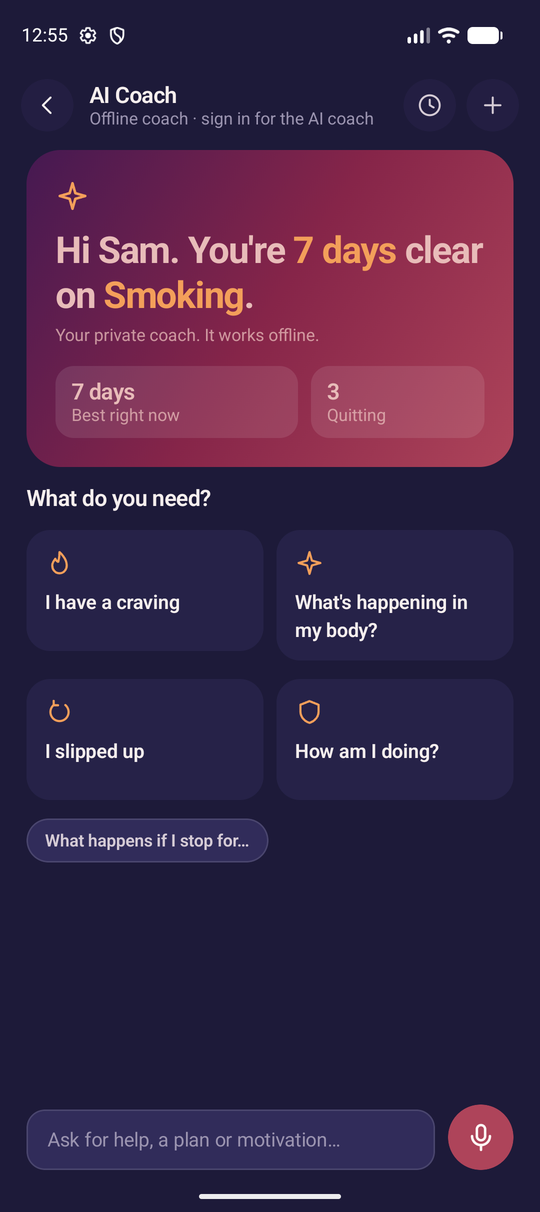
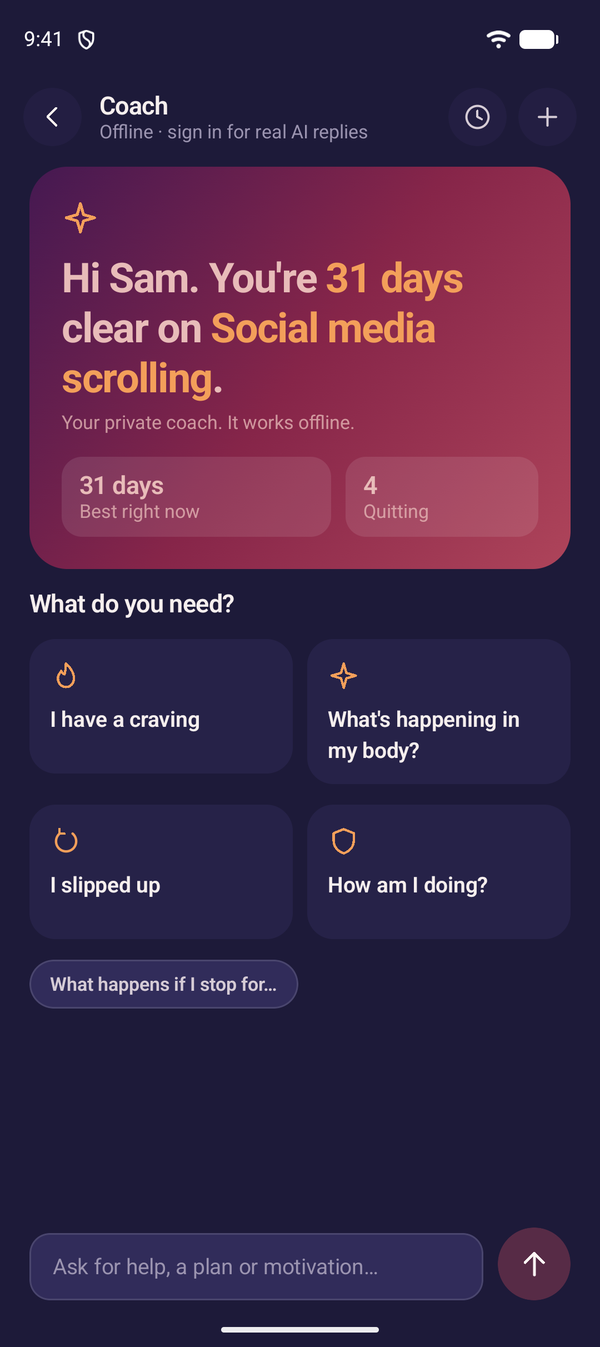
docs(readme): fresh screenshots, clean gallery layout and an Arabic section
The gallery table had a changelog note pasted into its header row, which
pushed captions beside the images. Rebuilt it as HTML tables with each
caption under its image, grouped by topic, and added six right-to-left
Arabic screens. New hero banner and screenshots from the current UI.

diff --git a/README.md b/README.md
@@ -33,22 +33,84 @@ NixUra helps people **break bad habits**, **build good ones** and **look forward
 
 ## Screenshots
 
-All screenshots are from the Android app running on a Pixel 9 emulator, with demo data.
+Taken on the Android app (Pixel 9 emulator) on 2026-11-20 with demo data. The widgets picture is from 2026-11-14.
 
-| Home dashboard | Habits to quit | Polish (2026-11-14) | Every card's ⋯ / long-press sheet has "Add to Home screen"; Event cards are coloured by category and warm up as the event comes closer; Home shows quit habits as compact rows; Settings has Dark / Light / Same as phone; the coach's focus follows the habit a chat is about; landing shows the official icon with Create account, Continue as guest and Sign in. |
-| Quit habit analysis |
-|:---:|:---:|:---:|
-| <img src="docs/screenshots/home.png" width="250" alt="Home dashboard" /> | <img src="docs/screenshots/quit.png" width="250" alt="Habits to quit" /> | <img src="docs/screenshots/quit-detail.png" width="250" alt="Quit habit analysis" /> |
-| **Habits to build** | **Prayer habit card** | **Good habit analysis** |
-| <img src="docs/screenshots/build.png" width="250" alt="Habits to build" /> | <img src="docs/screenshots/prayer.png" width="250" alt="Prayer habit card" /> | <img src="docs/screenshots/prayer-detail.png" width="250" alt="Good habit analysis" /> |
-| **Event countdowns** | **Coach** | **Coach reply with a progress card** |
-| <img src="docs/screenshots/events.png" width="250" alt="Event countdowns" /> | <img src="docs/screenshots/coach.png" width="250" alt="Coach" /> | <img src="docs/screenshots/coach-chat.png" width="250" alt="Coach reply" /> |
-| **Adding a quit habit (name recognised)** | **Adding a good habit** | **Adding an event with reminders** |
-| <img src="docs/screenshots/add-quit.png" width="250" alt="Add a quit habit" /> | <img src="docs/screenshots/add-good.png" width="250" alt="Add a good habit" /> | <img src="docs/screenshots/add-event.png" width="250" alt="Add an event" /> |
-| **Home-screen widgets** | **Light theme** | **Light theme** |
-| <img src="docs/screenshots/widgets.png" width="250" alt="Android home-screen widgets" /> | <img src="docs/screenshots/home-light.png" width="250" alt="Home in the light theme" /> | <img src="docs/screenshots/quit-light.png" width="250" alt="Quit list in the light theme" /> |
-| **Welcome** | **Sign in** | **Settings** |
-| <img src="docs/screenshots/welcome.png" width="250" alt="Welcome screen" /> | <img src="docs/screenshots/sign-in.png" width="250" alt="Sign-in screen" /> | <img src="docs/screenshots/settings.png" width="250" alt="Settings" /> |
+### Your day at a glance
+
+<table>
+  <tr>
+    <td align="center" width="33%"><img src="docs/screenshots/home.png" width="240" alt="Home dashboard" /><br /><sub><b>Home dashboard</b></sub></td>
+    <td align="center" width="33%"><img src="docs/screenshots/quit.png" width="240" alt="Habits to quit" /><br /><sub><b>Habits to quit</b></sub></td>
+    <td align="center" width="33%"><img src="docs/screenshots/build.png" width="240" alt="Habits to build" /><br /><sub><b>Habits to build</b></sub></td>
+  </tr>
+</table>
+
+### Progress and countdowns
+
+<table>
+  <tr>
+    <td align="center" width="33%"><img src="docs/screenshots/quit-detail.png" width="240" alt="Quit habit analysis" /><br /><sub><b>Quit habit analysis</b></sub></td>
+    <td align="center" width="33%"><img src="docs/screenshots/prayer-detail.png" width="240" alt="Prayer habit analysis" /><br /><sub><b>Prayer habit analysis</b></sub></td>
+    <td align="center" width="33%"><img src="docs/screenshots/events.png" width="240" alt="Event countdowns" /><br /><sub><b>Event countdowns</b></sub></td>
+  </tr>
+</table>
+
+### Coach and widgets
+
+<table>
+  <tr>
+    <td align="center" width="33%"><img src="docs/screenshots/coach.png" width="240" alt="Offline coach" /><br /><sub><b>Offline coach</b></sub></td>
+    <td align="center" width="33%"><img src="docs/screenshots/coach-chat.png" width="240" alt="Coach reply with a progress card" /><br /><sub><b>Coach reply with a progress card</b></sub></td>
+    <td align="center" width="33%"><img src="docs/screenshots/widgets.png" width="240" alt="Android home-screen widgets" /><br /><sub><b>Android home-screen widgets</b></sub></td>
+  </tr>
+</table>
+
+### Adding things
+
+<table>
+  <tr>
+    <td align="center" width="33%"><img src="docs/screenshots/add-quit.png" width="240" alt="New quit habit (name recognised)" /><br /><sub><b>New quit habit (name recognised)</b></sub></td>
+    <td align="center" width="33%"><img src="docs/screenshots/add-good.png" width="240" alt="New good habit (N days a week)" /><br /><sub><b>New good habit (N days a week)</b></sub></td>
+    <td align="center" width="33%"><img src="docs/screenshots/add-event.png" width="240" alt="New event with reminders" /><br /><sub><b>New event with reminders</b></sub></td>
+  </tr>
+</table>
+
+### Light theme
+
+<table>
+  <tr>
+    <td align="center" width="33%"><img src="docs/screenshots/home-light.png" width="240" alt="Home" /><br /><sub><b>Home</b></sub></td>
+    <td align="center" width="33%"><img src="docs/screenshots/quit-light.png" width="240" alt="Habits to quit" /><br /><sub><b>Habits to quit</b></sub></td>
+    <td align="center" width="33%"><img src="docs/screenshots/build-light.png" width="240" alt="Habits to build" /><br /><sub><b>Habits to build</b></sub></td>
+  </tr>
+</table>
+
+### Getting started
+
+<table>
+  <tr>
+    <td align="center" width="33%"><img src="docs/screenshots/welcome.png" width="240" alt="Welcome" /><br /><sub><b>Welcome</b></sub></td>
+    <td align="center" width="33%"><img src="docs/screenshots/sign-in.png" width="240" alt="Sign in" /><br /><sub><b>Sign in</b></sub></td>
+    <td align="center" width="33%"><img src="docs/screenshots/settings.png" width="240" alt="Settings: theme, language, digits" /><br /><sub><b>Settings: theme, language, digits</b></sub></td>
+  </tr>
+</table>
+
+### Arabic (العربية)
+
+Arabic is a full second language: every screen turns right-to-left, with Arabic text, plurals, dates and optional Arabic digits. Switch it in Settings > Language.
+
+<table>
+  <tr>
+    <td align="center" width="33%"><img src="docs/screenshots/home-ar.png" width="240" alt="الرئيسية · Home" /><br /><sub><b>الرئيسية · Home</b></sub></td>
+    <td align="center" width="33%"><img src="docs/screenshots/quit-ar.png" width="240" alt="عادات تقلع عنها · Quit" /><br /><sub><b>عادات تقلع عنها · Quit</b></sub></td>
+    <td align="center" width="33%"><img src="docs/screenshots/build-ar.png" width="240" alt="عادات تبنيها · Build" /><br /><sub><b>عادات تبنيها · Build</b></sub></td>
+  </tr>
+  <tr>
+    <td align="center" width="33%"><img src="docs/screenshots/events-ar.png" width="240" alt="مناسبات مهمة · Events" /><br /><sub><b>مناسبات مهمة · Events</b></sub></td>
+    <td align="center" width="33%"><img src="docs/screenshots/coach-ar.png" width="240" alt="المدرّب · Coach" /><br /><sub><b>المدرّب · Coach</b></sub></td>
+    <td align="center" width="33%"><img src="docs/screenshots/settings-ar.png" width="240" alt="الإعدادات · Settings" /><br /><sub><b>الإعدادات · Settings</b></sub></td>
+  </tr>
+</table>
 
 ## Engineering highlights
 

diff --git a/docs/DEVELOPMENT_STATUS.md b/docs/DEVELOPMENT_STATUS.md
@@ -77,6 +77,12 @@ Branch `claude/nixora-bugs-features-plan-9a1220`. Plan and ownership for all fou
 - **Verified:** `:shared:testAndroidHostTest` passes (475 tests, new `CoachActionRulesTest` and `ApplyCoachActionsUseCaseTest`) and `:androidApp:assembleDebug` builds.
 - **Not verified:** nothing was seen running. The only device attached was an emulator (not the owner's phone) that stopped answering adb, so `installDebug` could not finish. The owner checks on the phone: record a voice note, tap the pencil, change the count, the date and the category, keep, add, and see the corrected habit and event saved. iOS not compiled (no Mac; the code is all in `commonMain`).
 
+## README screenshots refresh (2026-11-20, branch `claude/nixura-readme-update-2f4f49`)
+
+- **Fixed:** the README gallery was broken: a changelog note had been pasted into the table's header row, so captions sat beside the pictures. The gallery is now HTML tables with each caption directly under its image, grouped into sections (day at a glance, progress and countdowns, coach and widgets, adding things, light theme, getting started) plus a new **Arabic (العربية)** section with six right-to-left screens.
+- **New screenshots and hero banner** from the current `master` UI: `:androidApp:assembleDebug` built and installed on the Pixel 9 emulator; demo data written into the emulator's database (4 quit habits, 4 good habits with 45 days of history, 4 events). The widgets picture is still the one from 2026-11-14 (not retaken). `prayer.png` was removed (the prayer card shows on the Build screenshot).
+- No app code changed.
+
 ## README, screenshots and official app icon (2026-11-14, branch `claude/nixura-repo-enhancement-3a1a93`)
 
 - **App icon:** the owner's artwork (broken purple chain, glowing gold "i") is now the official launcher icon. Android: adaptive icon (`mipmap-*/ic_launcher_foreground.png` at all five densities on `@color/ic_launcher_background` `#110721`), legacy `ic_launcher` / `ic_launcher_round` PNGs for Android 7, and `androidApp/src/main/ic_launcher-playstore.png` (512 px) for the Play listing. The template vectors `drawable-v24/ic_launcher_foreground.xml` and `drawable/ic_launcher_background.xml` were removed. iOS: `app-icon-1024.png` replaced (opaque, iOS rounds it). The in-app leaf brand mark was not changed.
